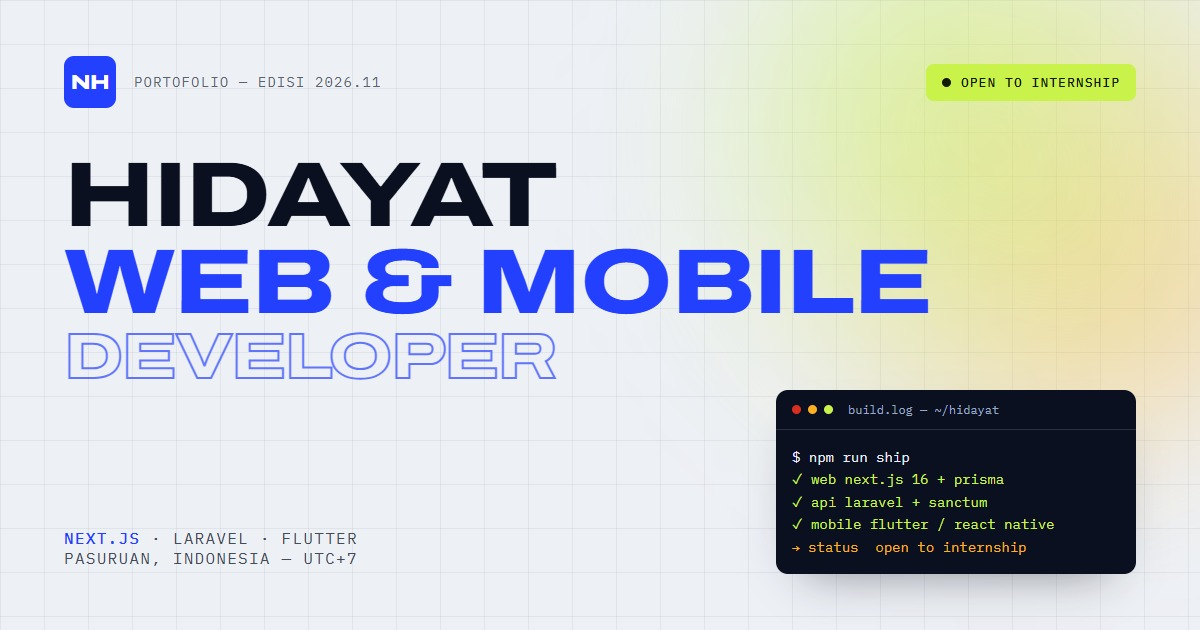
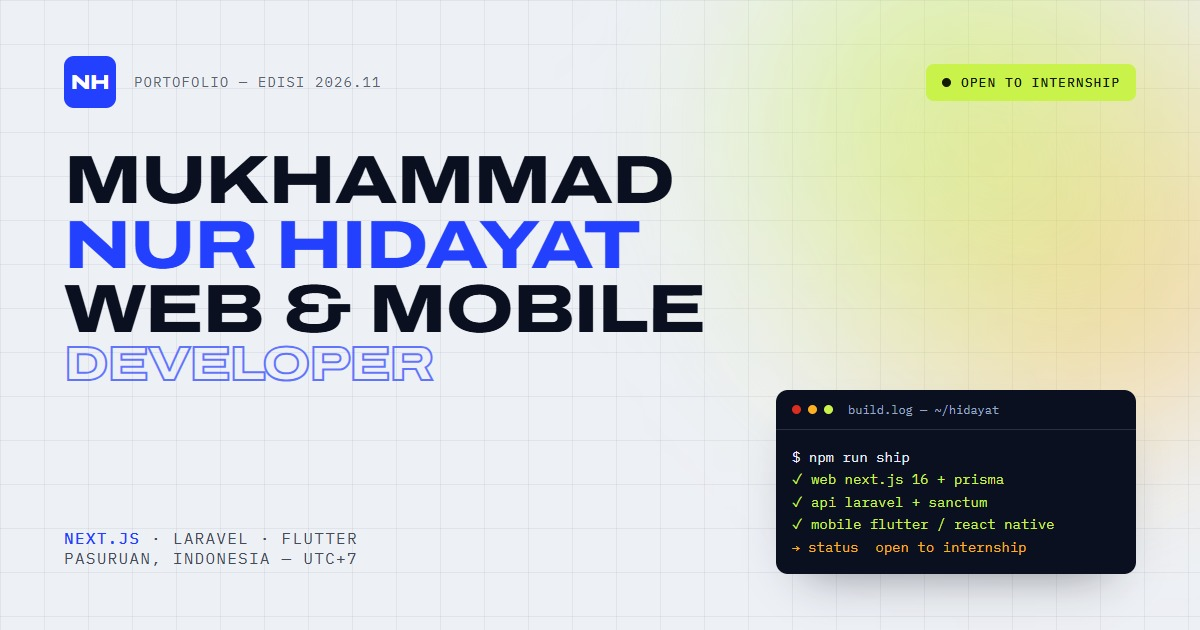
style: nama lengkap jadi judul hero + navbar, OG ikut disesuaikan

Changed region(s): [[0.0308, 0.2413, 0.7708, 0.6032]]

diff --git a/app/portfolio-client.tsx b/app/portfolio-client.tsx
@@ -580,7 +580,7 @@ export default function PortfolioClient() {
               NH
             </span>
             <span className="hidden sm:block leading-none">
-              <span className="block text-sm font-semibold tracking-wide">Hidayat</span>
+              <span className="block text-sm font-semibold tracking-wide">Mukhammad Nur Hidayat</span>
               <span className="block font-meta text-[9px] text-ink-3 mt-1">
                 Web &amp; Mobile
               </span>
@@ -683,11 +683,12 @@ export default function PortfolioClient() {
 
             <motion.h1
               initial={{ opacity: 0, y: 20 }} animate={{ opacity: 1, y: 0 }} transition={{ duration: 0.7, delay: 0.1 }}
-              className="font-display text-hero text-ink mb-5"
+              className="font-display text-[clamp(2rem,4.6vw,4rem)] text-ink mb-5"
             >
-              <span className="block">Hidayat</span>
-              <span className="block text-accent">Web &amp; Mobile</span>
-              <span className="block outline-name text-[clamp(2.2rem,5.5vw,4.6rem)]">Developer</span>
+              <span className="block">Mukhammad</span>
+              <span className="block text-accent">Nur Hidayat</span>
+              <span className="block">Web &amp; Mobile</span>
+              <span className="block outline-name text-[clamp(1.8rem,4vw,3.4rem)]">Developer</span>
             </motion.h1>
 
             <motion.p

diff --git a/app/globals.css b/app/globals.css
@@ -128,7 +128,6 @@
 }
 
 @theme {
-  --text-hero: clamp(2.8rem, 8vw, 6rem);
   --text-section: clamp(2rem, 5vw, 3.5rem);
   --text-card-title: clamp(1.15rem, 2vw, 1.5rem);
   --text-lead: clamp(1rem, 1.5vw, 1.15rem);
